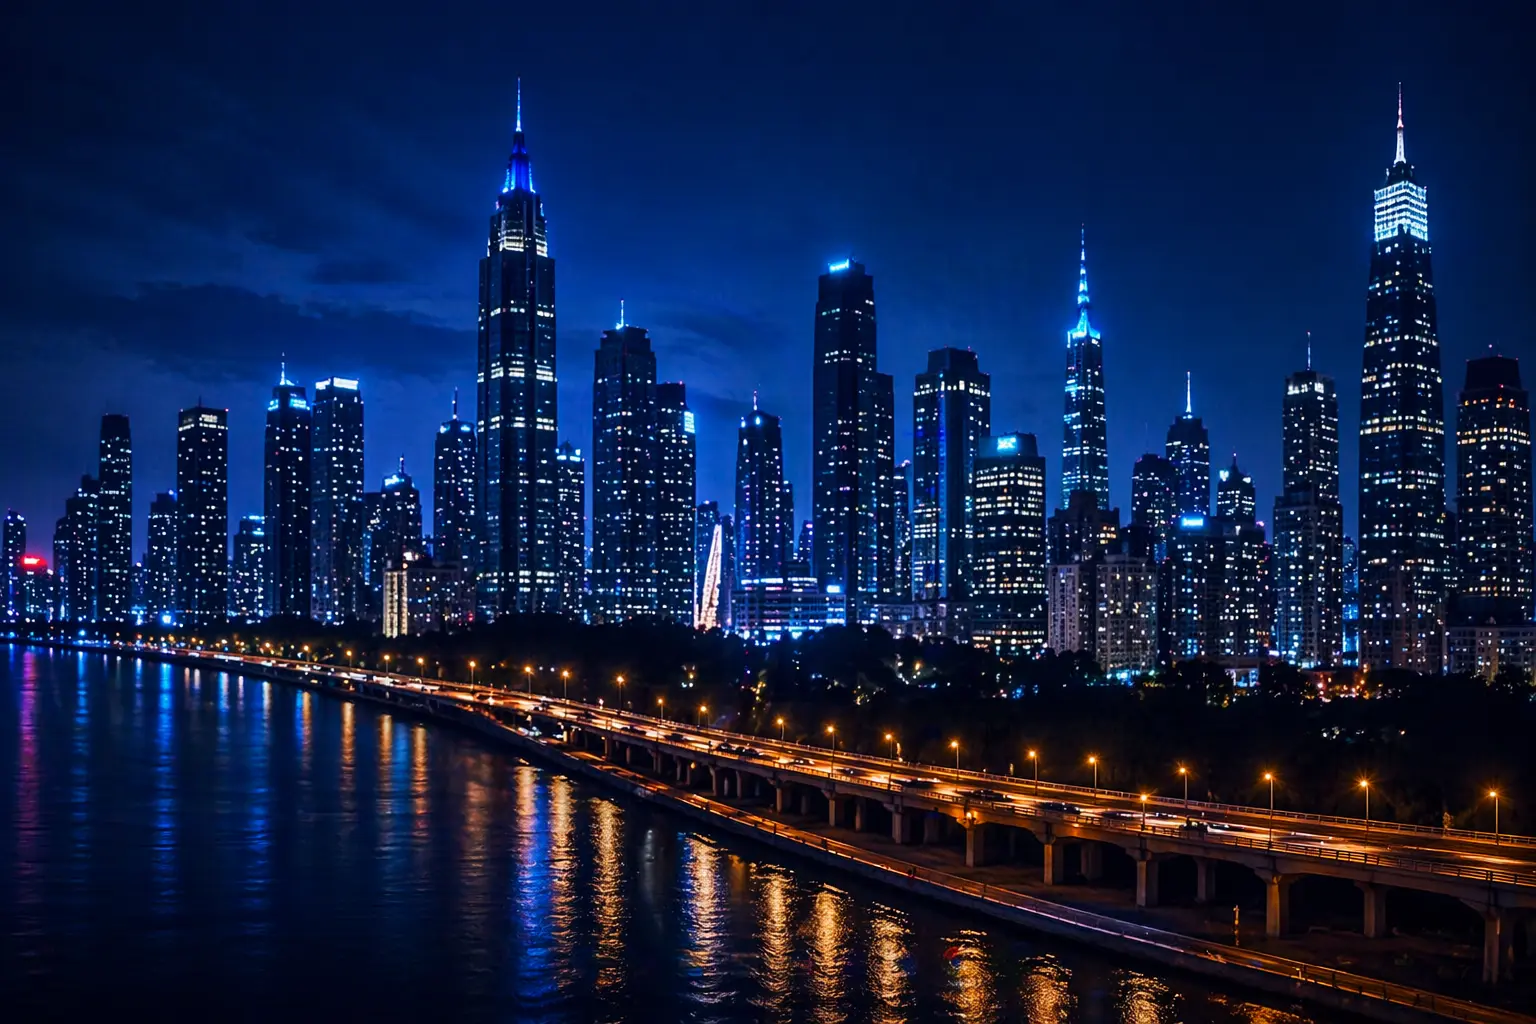
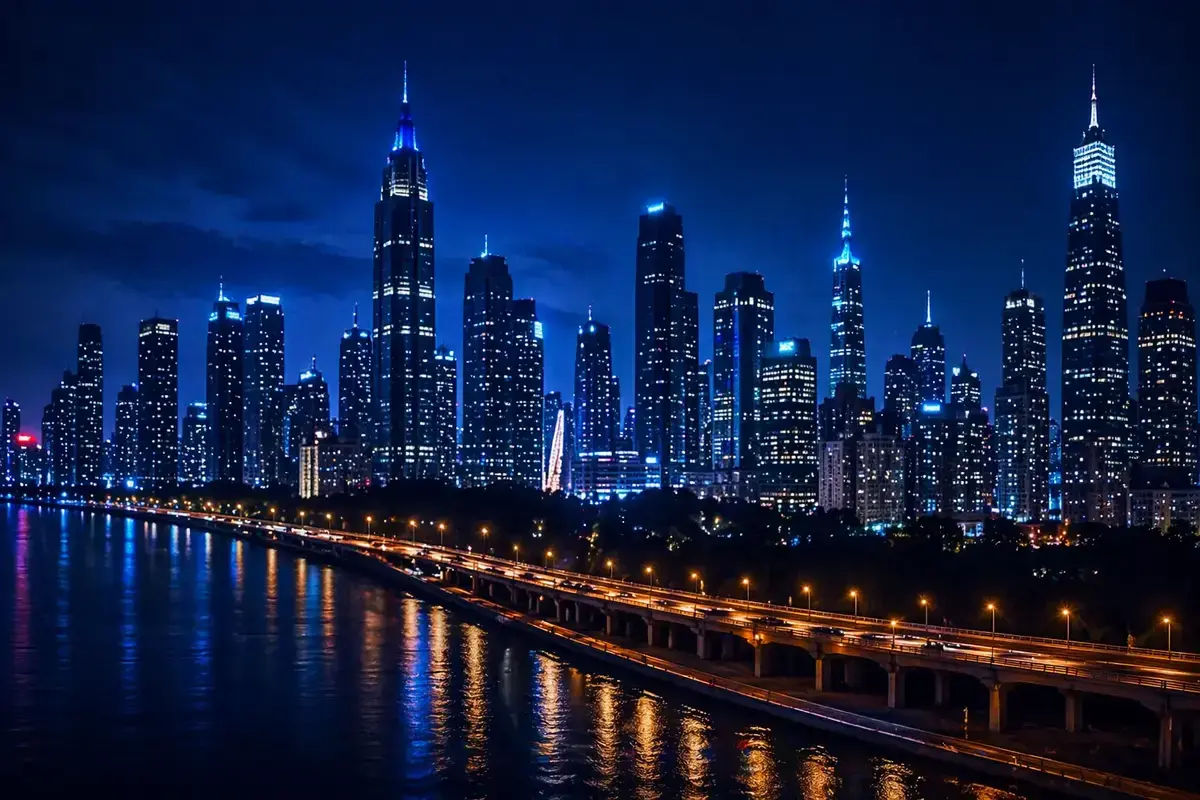
Lighthouse performance issue fixed. Performance and Accessability is now more than 80%

diff --git a/src/index.html b/src/index.html
@@ -42,19 +42,18 @@
       content="Yardi techno-functional consultant specializing in property management systems."
     />
     <link rel="icon" type="image/x-icon" href="favicon.ico" />
+
+    <link
+      href="https://fonts.googleapis.com/icon?family=Material+Icons"
+      rel="stylesheet"
+    />
+    <link rel="preconnect" href="https://fonts.googleapis.com" />
+    <link rel="preconnect" href="https://fonts.gstatic.com" crossorigin />
+
     <link
       href="https://fonts.googleapis.com/css2?family=Roboto:wght@300;400;500&display=swap"
       rel="stylesheet"
     />
-    <link
-      href="https://fonts.googleapis.com/icon?family=Material+Icons"
-      rel="stylesheet"
-    />
-    <link
-      href="https://fonts.googleapis.com/icon?family=Material+Icons"
-      rel="stylesheet"
-    />
-    <link rel="preconnect" href="https://fonts.gstatic.com" crossorigin />
     <script type="application/ld+json">
       {
         "@context": "https://schema.org",
@@ -77,18 +76,23 @@
         ]
       }
     </script>
-    <script
-      async
-      src="https://www.googletagmanager.com/gtag/js?id=G-QYZEE2C6MJ"
-    ></script>
-    <script>
-      window.dataLayer = window.dataLayer || [];
-      function gtag() {
-        dataLayer.push(arguments);
-      }
-      gtag("js", new Date());
 
-      gtag("config", "G-QYZEE2C6MJ");
+    <script>
+      window.addEventListener("load", () => {
+        const s = document.createElement("script");
+        s.src = "https://www.googletagmanager.com/gtag/js?id=G-QYZEE2C6MJ";
+        s.async = true;
+        document.head.appendChild(s);
+
+        window.dataLayer = window.dataLayer || [];
+        function gtag() {
+          dataLayer.push(arguments);
+        }
+        window.gtag = gtag;
+
+        gtag("js", new Date());
+        gtag("config", "G-QYZEE2C6MJ");
+      });
     </script>
   </head>
   <body>

diff --git a/src/app/app.html b/src/app/app.html
@@ -16,7 +16,13 @@
       <span class="title">Portfolio</span>
     </div>
     <div class="video-wrapper">
-      <div class="bg-image"></div>
+      <img
+        class="bg-image"
+        src="assets/images/City Night View 2.webp"
+        alt="City night view"
+        loading="eager"
+        fetchpriority="high"
+      />
 
       <div class="overlay-gradient"></div>
 
@@ -86,6 +92,8 @@
         <p class="role-tag">
           <img
             src="assets/images/YardiLogo.webp"
+            width="93"
+            height="29"
             alt="Yardi"
             class="yrd-logo"
           />

diff --git a/src/app/app.scss b/src/app/app.scss
@@ -83,8 +83,12 @@
     .bg-image {
       position: absolute;
       inset: 0;
-      background: url("/assets/images/City Night View 2.webp") no-repeat center;
-      background-size: cover;
+      width: 100%;
+      height: 100%;
+
+      object-fit: cover;
+      object-position: center;
+
       border-radius: 20px;
 
       filter: brightness(0.7) contrast(1.1) saturate(1.2);
